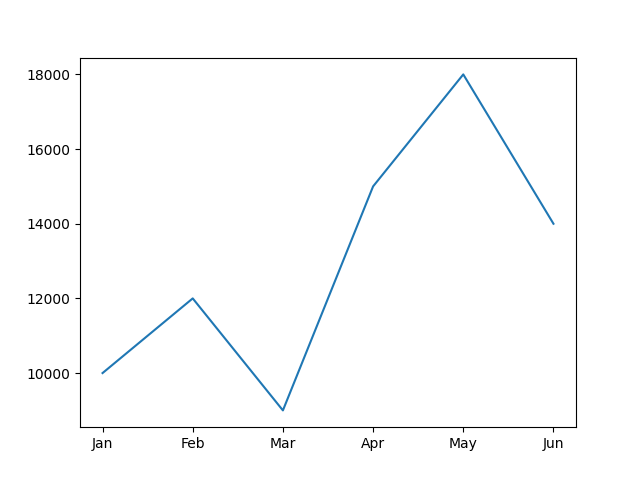
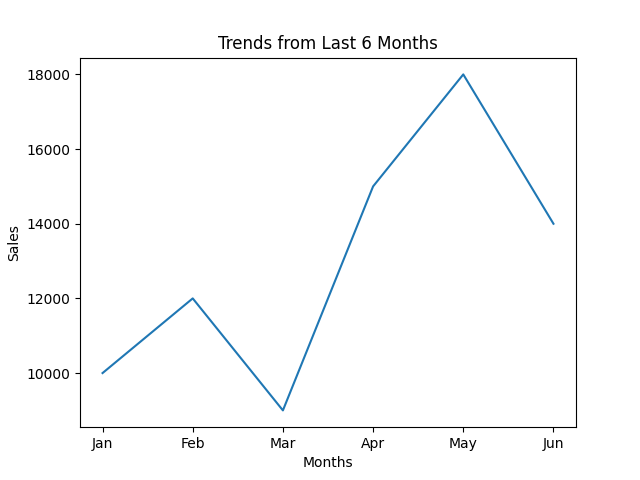
problem5_updated

Changed region(s): [[0.3438, 0.0625, 0.6875, 0.125], [0.4688, 0.9375, 0.5625, 0.9688], [0.0, 0.4688, 0.0312, 0.5625]]

diff --git a/SumeetS/problem5.py b/SumeetS/problem5.py
@@ -4,6 +4,11 @@ from matplotlib import pyplot as plt
 months = ['Jan', 'Feb', 'Mar', 'Apr', 'May', 'Jun']
 sales = [10000, 12000, 9000, 15000, 18000, 14000]
 
+plt.xlabel('Months')
+plt.ylabel('Sales')
+plt.title('Trends from Last 6 Months')
 plt.plot(months, sales)
+
+
 
 plt.savefig('SumeetS/sample.png')
